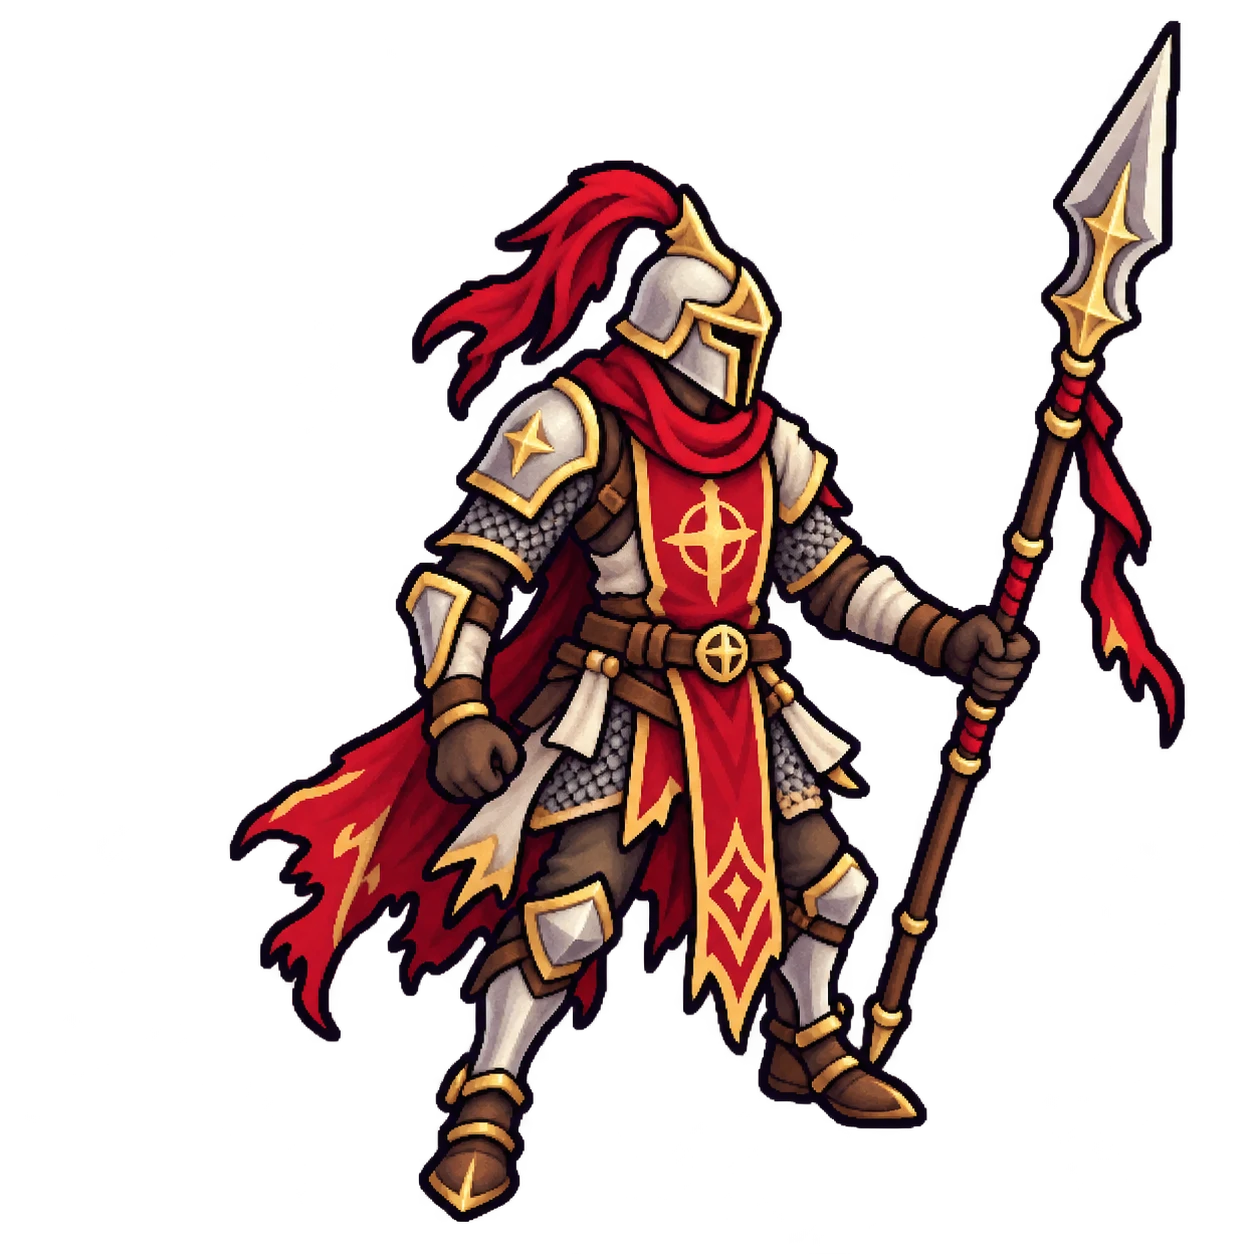
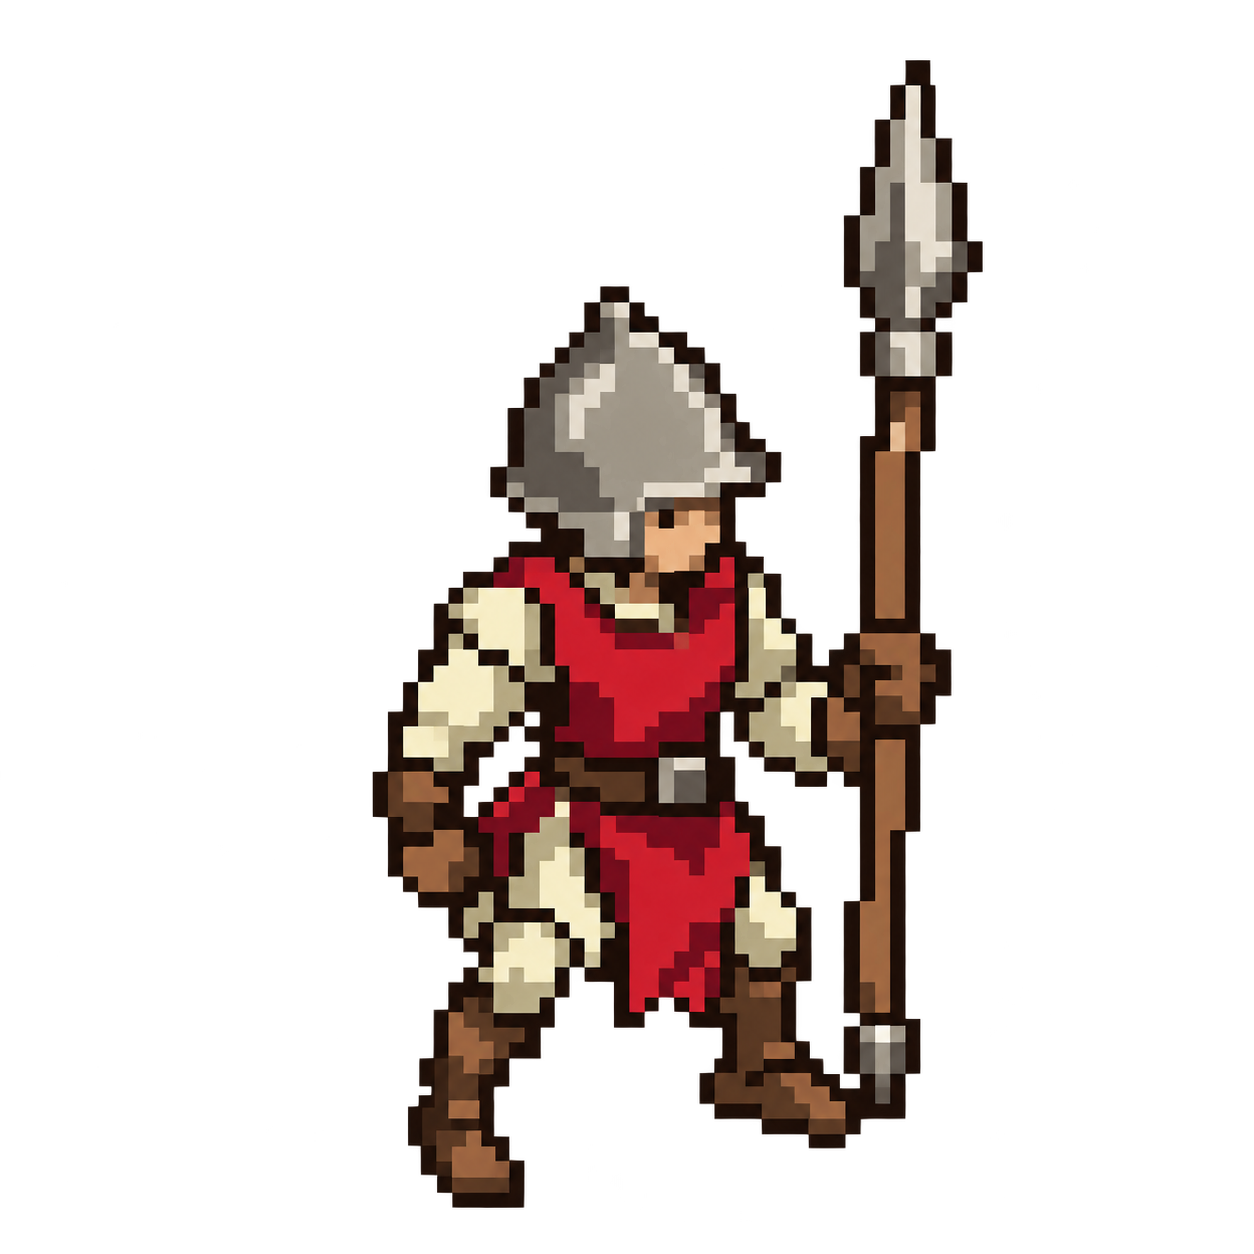
Covenant Recruit anchor, and conversion notes in the art bible
The owner's recruit image converted to the 40 px grid (24x40 art px) with
--no-prune --no-levels, which keeps the grey steel helmet and the face's
skin colour, and the spear shaft's lit column repainted wood brown by
hand. The art bible records the conversion tips learned on anchors 1-3.

Claude-Session: https://claude.ai/code/session_01FLPv2RqRe5qVsRWxUhur7z

diff --git a/docs/art/ART_BIBLE.md b/docs/art/ART_BIBLE.md
@@ -174,11 +174,23 @@ The tool turns any image into palette-correct grid art, but **what it can keep d
   2 px thick in places); it gave the cleaner necromancer.
 - The last 10% (eyes, a face, a clean hand) is fastest done by hand on the small PNG in a pixel
   editor; the check sheet shows whether it is needed.
+- **Small coloured features** (glowing eyes, a gem) are kept automatically: a strongly saturated
+  colour can win its art pixel even when it is no brighter than its surroundings, and such accent
+  colours are never pruned as stray (`ACCENT_CHROMA` in the tool). Eyes smaller than one art pixel in
+  the source can still vanish; put them back by hand (the warrior's teal eyes).
+- **When a material comes out wrong** (a steel helmet turned bone-white, a face lost its skin colour),
+  convert with `--no-prune --no-levels`: no ramp is dropped for being rare and each colour keeps its own
+  shade instead of being stretched over the ramp. It gave the clean Covenant Recruit.
+- **Features thinner than one art pixel** (a spear shaft one source block wide between two outline
+  blocks) come out as outline only. Repaint the lit column by hand (the recruit's shaft: the left
+  column in wood brown, the right one kept as its outline).
 
 ## Anchors (the first six, approved in-game before everything else)
 
-**Status:** the necromancer anchor is in progress: the owner's chunky image (~65 px native) converted
-to 56 art px with `--inside-outline`, being checked on its sheet and in the game.
+**Status:** anchors 1-3 are in the game: the necromancer (owner's ~65 px image, `--inside-outline`, hood
+eyes separated by hand), the Skeleton Warrior (~54 px image, `--inside-outline`, eyes restored by hand)
+and the Covenant Recruit (~60 px image, `--inside-outline --no-prune --no-levels`, spear shaft
+repainted by hand). Next: the Graveyard floor tile, the gravestone and the Shadow Bolt icon.
 
 The anchors fix the style for everything else. Approve them **in order**, each on its check sheet and
 in the game, then attach the approved ones to every later prompt. Each prompt is ready to paste.
